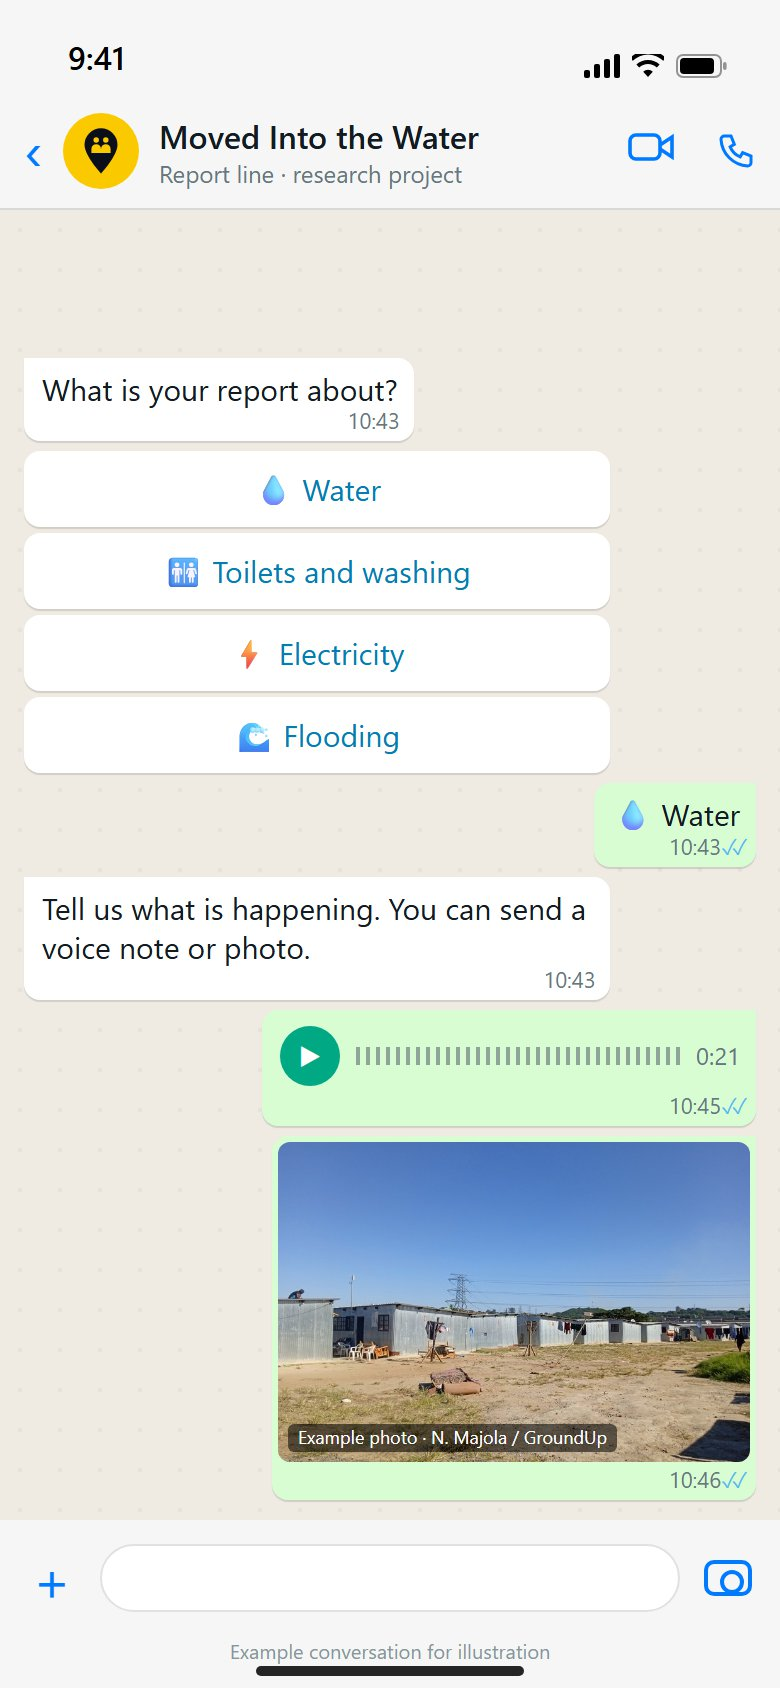
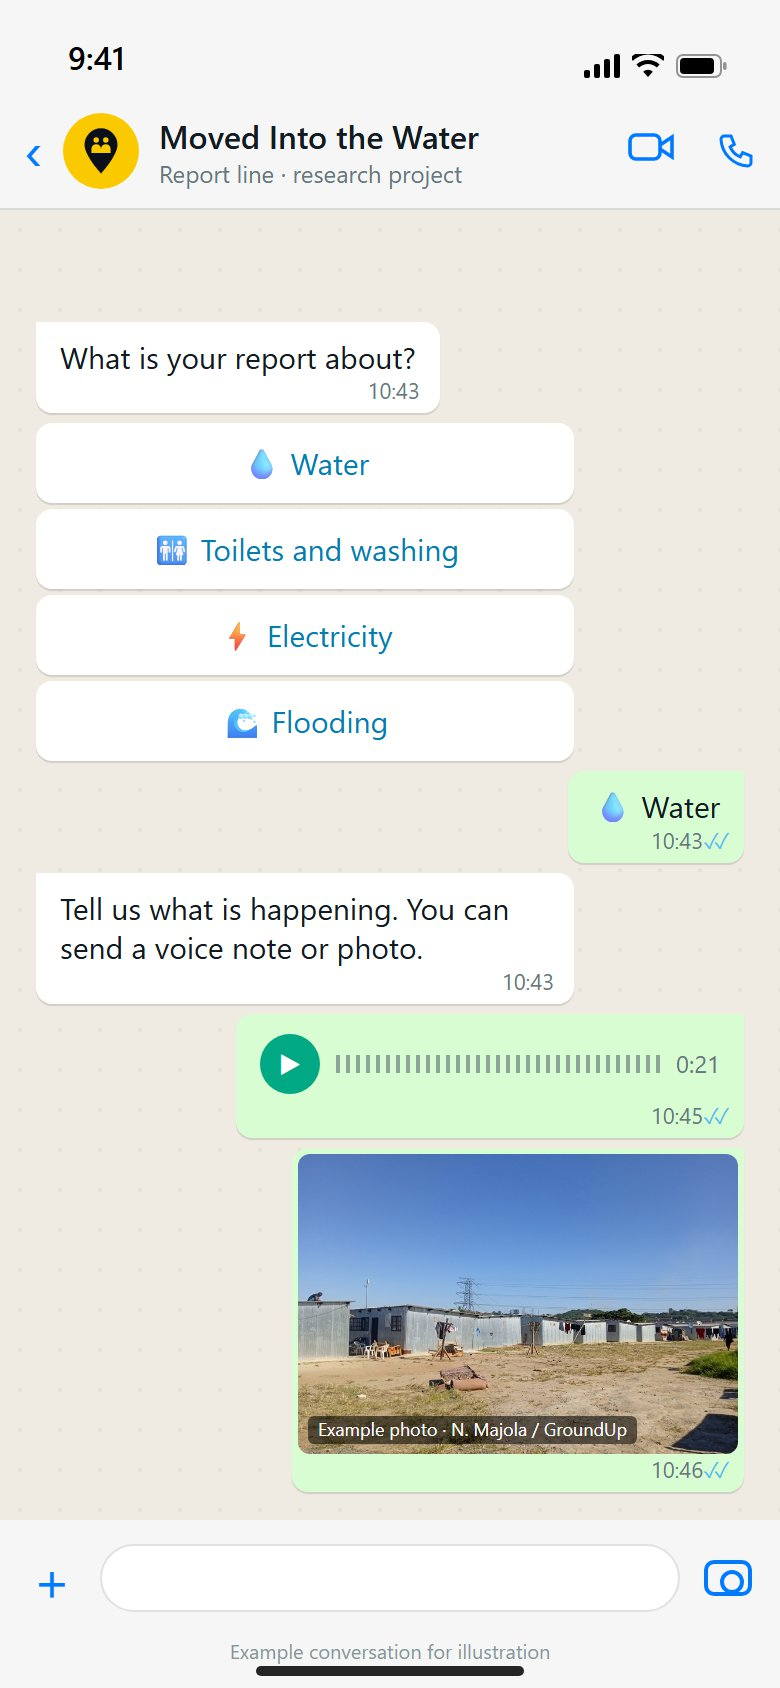
Report: chats drawn as live text (sharp at any size), WhatsApp-style bubble margins

Changed region(s): [[0.0308, 0.4929, 0.9846, 0.8934], [0.0308, 0.1848, 0.9846, 0.5237]]

diff --git a/viz-wandile/report/chats.js b/viz-wandile/report/chats.js
@@ -1,0 +1,3 @@
+/* Example chats for the Report page, drawn as live text so they stay sharp. Built by mockups/whatsapp-report/export_chats.py. */
+window.RP_CSS=".rpc *{box-sizing:border-box}\n.rpc,.rpc{margin:0;background:#fff;font-family:-apple-system,\"SF Pro Text\",\"Segoe UI\",Inter,Arial,sans-serif;overflow:hidden}\n.rpc .ph{position:absolute;left:0;top:0;width:390px;height:844px;display:flex;flex-direction:column;background:#EFEAE2}\n.rpc .sb{height:47px;display:flex;align-items:flex-end;justify-content:space-between;padding:0 26px 8px 34px;font-weight:600;font-size:16px;color:#000;background:#F6F6F6}\n.rpc .sb .ic{display:flex;gap:6px;align-items:center}\n.rpc .sb .ic i{display:block;background:#000;border-radius:2px}\n.rpc .hd{height:58px;display:flex;align-items:center;gap:10px;padding:0 12px;background:#F6F6F6;border-bottom:1px solid #d8d8d8;color:#111B21}\n.rpc .hd .bk{color:#007AFF;font-size:30px;line-height:1;margin-top:-4px}\n.rpc .av{width:38px;height:38px;border-radius:50%;background:#FBC900;display:grid;place-items:center;flex:none}\n.rpc .av svg{width:20px;height:24px}\n.rpc .nm{font-weight:600;font-size:16px}\n.rpc .st{font-size:12px;color:#667781}\n.rpc .hd .call{margin-left:auto;display:flex;gap:20px;color:#007AFF;font-size:20px}\n.rpc .bd{flex:1;padding:12px 18px 14px;display:flex;flex-direction:column;justify-content:flex-end;gap:5px;overflow:hidden;\n background:#EFEAE2 radial-gradient(rgba(0,0,0,.035) 1.2px,transparent 1.3px) 0 0/20px 20px}\n.rpc .day{align-self:center;background:#fff;color:#54656F;font-size:12px;padding:5px 12px;border-radius:8px;box-shadow:0 1px .5px rgba(11,20,26,.13);margin-bottom:4px}\n.rpc .enc{align-self:center;background:#FFEECD;color:#54656F;font-size:11.5px;line-height:1.35;padding:6px 10px;border-radius:8px;text-align:center;max-width:88%;margin-bottom:4px}\n.rpc .b{max-width:76%;padding:8px 12px 18px 12px;border-radius:8px;font-size:15px;line-height:1.32;color:#111B21;position:relative;box-shadow:0 1px .5px rgba(11,20,26,.13);white-space:pre-line}\n.rpc .b.in{background:#fff;align-self:flex-start;border-top-left-radius:0}\n.rpc .b.out{background:#D9FDD3;align-self:flex-end;border-top-right-radius:0}\n.rpc .b time{position:absolute;right:10px;bottom:4px;font-size:11px;color:#667781}\n.rpc .b.out time::after{content:\" \u2713\u2713\";color:#53BDEB;letter-spacing:-3px}\n.rpc .bt{align-self:flex-start;width:76%;display:grid;gap:3px}\n.rpc .bt div{background:#fff;border-radius:8px;padding:10px 12px;text-align:center;color:#027EB5;font-size:15px;box-shadow:0 1px .5px rgba(11,20,26,.13)}\n.rpc .pic{width:220px;height:150px;border-radius:6px;background:center/cover;margin-bottom:3px;position:relative}\n.rpc .pic span{position:absolute;left:5px;bottom:5px;font-size:9px;background:rgba(0,0,0,.55);color:#fff;padding:1px 5px;border-radius:3px}\n.rpc .vn{display:flex;align-items:center;gap:8px;width:230px;padding:2px 0 4px}\n.rpc .vn b{width:30px;height:30px;border-radius:50%;background:#00A884;display:grid;place-items:center;color:#fff;font-size:12px}\n.rpc .vn i{flex:1;height:22px;background:repeating-linear-gradient(90deg,#8fa59a 0 2px,transparent 2px 5px);-webkit-mask:linear-gradient(transparent 30%,#000 30%,#000 70%,transparent 70%)}\n.rpc .ft{height:84px;background:#F6F6F6;display:grid;grid-template-columns:28px 1fr 28px;gap:10px;align-items:center;padding:8px 12px 34px}\n.rpc .ft .pl{color:#007AFF;font-size:28px;line-height:1;text-align:center}\n.rpc .ft .box{height:34px;border-radius:18px;background:#fff;border:1px solid #e1e1e1}\n.rpc .ft .cam{width:24px;height:18px;border:2px solid #007AFF;border-radius:5px;position:relative;justify-self:center}\n.rpc .ft .cam::after{content:\"\";position:absolute;left:6px;top:3px;width:8px;height:8px;border:2px solid #007AFF;border-radius:50%}\n.rpc .ex{position:absolute;left:0;right:0;bottom:12px;text-align:center;font-size:10px;color:#8696A0}\n.rpc .home{position:absolute;left:50%;bottom:6px;transform:translateX(-50%);width:134px;height:5px;border-radius:3px;background:#000;opacity:.85}";
+window.RP_CHATS=["<div class=\"ph\"><div class=\"sb\"><span>9:41</span><span class=\"ic\"><svg width=\"18\" height=\"12\" viewBox=\"0 0 18 12\"><rect x=\"0\" y=\"8\" width=\"3\" height=\"4\" rx=\"1\"/><rect x=\"5\" y=\"5\" width=\"3\" height=\"7\" rx=\"1\"/><rect x=\"10\" y=\"2.5\" width=\"3\" height=\"9.5\" rx=\"1\"/><rect x=\"15\" y=\"0\" width=\"3\" height=\"12\" rx=\"1\"/></svg><svg width=\"16\" height=\"12\" viewBox=\"0 0 16 12\"><path d=\"M8 11.5l2.4-2.6a3.4 3.4 0 00-4.8 0zM3.6 6.8a6.3 6.3 0 018.8 0l1.4-1.5a8.4 8.4 0 00-11.6 0zM.4 3.4a10.8 10.8 0 0115.2 0L17 2A12.8 12.8 0 00-1 2z\"/></svg><svg width=\"26\" height=\"12\" viewBox=\"0 0 26 12\"><rect x=\".5\" y=\".5\" width=\"22\" height=\"11\" rx=\"3\" fill=\"none\" stroke=\"#000\" opacity=\".4\"/><rect x=\"2\" y=\"2\" width=\"17\" height=\"8\" rx=\"2\"/><rect x=\"23.5\" y=\"4\" width=\"1.8\" height=\"4\" rx=\"1\" opacity=\".4\"/></svg></span></div><div class=\"hd\"><span class=\"bk\">‹</span><div class=\"av\"><svg viewBox=\"0 0 56 70\"><path d=\"M28 68C28 68 4 42 4 26a24 24 0 0148 0c0 16-24 42-24 42z\" fill=\"#0B0F19\"/><circle cx=\"21\" cy=\"19\" r=\"4\" fill=\"#FBC900\"/><circle cx=\"35\" cy=\"19\" r=\"4\" fill=\"#FBC900\"/><path d=\"M14 38v-6a7 7 0 0114 0v6zM28 38v-6a7 7 0 0114 0v6z\" fill=\"#FBC900\"/></svg></div><div><div class=\"nm\">Moved Into the Water</div><div class=\"st\">Report line · research project</div></div><div class=\"call\"><svg width=\"24\" height=\"16\" viewBox=\"0 0 24 16\" fill=\"none\" stroke=\"#007AFF\" stroke-width=\"1.8\"><rect x=\"1\" y=\"2\" width=\"15\" height=\"12\" rx=\"3\"/><path d=\"M16 7l6-4v10l-6-4\"/></svg><svg width=\"20\" height=\"20\" viewBox=\"0 0 24 24\" fill=\"none\" stroke=\"#007AFF\" stroke-width=\"1.8\"><path d=\"M5 3h4l2 5-2.5 1.5a11 11 0 006 6L16 13l5 2v4a2 2 0 01-2 2A17 17 0 013 5a2 2 0 012-2z\"/></svg></div></div><div class=\"bd\"><div class=\"day\">Today</div><div class=\"enc\">🔒 Your name is never shown on the map.</div><div class=\"b out\">Hi, I want to report conditions at my site<time>10:41</time></div><div class=\"b in\">Sawubona! 👋 This line is run by a student research project on Durban’s relocation sites.\n\nA researcher may call you to check your report. Type STOP any time.<time>10:41</time></div><div class=\"bt\"><div>I agree, continue</div><div>How we use reports</div></div><div class=\"b out\">I agree, continue<time>10:42</time></div><div class=\"b in\">Which site do you live at?<time>10:42</time></div><div class=\"b out\">Lamontville riverside camp<time>10:42</time></div></div><div class=\"ft\"><span class=\"pl\">+</span><span class=\"box\"></span><span class=\"cam\"></span></div><div class=\"ex\">Example conversation for illustration</div><div class=\"home\"></div></div>", "<div class=\"ph\"><div class=\"sb\"><span>9:41</span><span class=\"ic\"><svg width=\"18\" height=\"12\" viewBox=\"0 0 18 12\"><rect x=\"0\" y=\"8\" width=\"3\" height=\"4\" rx=\"1\"/><rect x=\"5\" y=\"5\" width=\"3\" height=\"7\" rx=\"1\"/><rect x=\"10\" y=\"2.5\" width=\"3\" height=\"9.5\" rx=\"1\"/><rect x=\"15\" y=\"0\" width=\"3\" height=\"12\" rx=\"1\"/></svg><svg width=\"16\" height=\"12\" viewBox=\"0 0 16 12\"><path d=\"M8 11.5l2.4-2.6a3.4 3.4 0 00-4.8 0zM3.6 6.8a6.3 6.3 0 018.8 0l1.4-1.5a8.4 8.4 0 00-11.6 0zM.4 3.4a10.8 10.8 0 0115.2 0L17 2A12.8 12.8 0 00-1 2z\"/></svg><svg width=\"26\" height=\"12\" viewBox=\"0 0 26 12\"><rect x=\".5\" y=\".5\" width=\"22\" height=\"11\" rx=\"3\" fill=\"none\" stroke=\"#000\" opacity=\".4\"/><rect x=\"2\" y=\"2\" width=\"17\" height=\"8\" rx=\"2\"/><rect x=\"23.5\" y=\"4\" width=\"1.8\" height=\"4\" rx=\"1\" opacity=\".4\"/></svg></span></div><div class=\"hd\"><span class=\"bk\">‹</span><div class=\"av\"><svg viewBox=\"0 0 56 70\"><path d=\"M28 68C28 68 4 42 4 26a24 24 0 0148 0c0 16-24 42-24 42z\" fill=\"#0B0F19\"/><circle cx=\"21\" cy=\"19\" r=\"4\" fill=\"#FBC900\"/><circle cx=\"35\" cy=\"19\" r=\"4\" fill=\"#FBC900\"/><path d=\"M14 38v-6a7 7 0 0114 0v6zM28 38v-6a7 7 0 0114 0v6z\" fill=\"#FBC900\"/></svg></div><div><div class=\"nm\">Moved Into the Water</div><div class=\"st\">Report line · research project</div></div><div class=\"call\"><svg width=\"24\" height=\"16\" viewBox=\"0 0 24 16\" fill=\"none\" stroke=\"#007AFF\" stroke-width=\"1.8\"><rect x=\"1\" y=\"2\" width=\"15\" height=\"12\" rx=\"3\"/><path d=\"M16 7l6-4v10l-6-4\"/></svg><svg width=\"20\" height=\"20\" viewBox=\"0 0 24 24\" fill=\"none\" stroke=\"#007AFF\" stroke-width=\"1.8\"><path d=\"M5 3h4l2 5-2.5 1.5a11 11 0 006 6L16 13l5 2v4a2 2 0 01-2 2A17 17 0 013 5a2 2 0 012-2z\"/></svg></div></div><div class=\"bd\"><div class=\"b in\">What is your report about?<time>10:43</time></div><div class=\"bt\"><div>💧 Water</div><div>🚻 Toilets and washing</div><div>⚡ Electricity</div><div>🌊 Flooding</div></div><div class=\"b out\">💧 Water<time>10:43</time></div><div class=\"b in\">Tell us what is happening. You can send a voice note or photo.<time>10:43</time></div><div class=\"b out\"><div class=\"vn\"><b>▶</b><i></i><small style=\"font-size:12px;color:#667781\">0:21</small></div><time>10:45</time></div><div class=\"b out\" style=\"padding:3px 3px 16px\"><div class=\"pic\" style=\"background-image:url(assets/photos/gu_lamontville_camp_2022.jpg)\"><span>Example photo · N. Majola / GroundUp</span></div><time>10:46</time></div></div><div class=\"ft\"><span class=\"pl\">+</span><span class=\"box\"></span><span class=\"cam\"></span></div><div class=\"ex\">Example conversation for illustration</div><div class=\"home\"></div></div>", "<div class=\"ph\"><div class=\"sb\"><span>9:41</span><span class=\"ic\"><svg width=\"18\" height=\"12\" viewBox=\"0 0 18 12\"><rect x=\"0\" y=\"8\" width=\"3\" height=\"4\" rx=\"1\"/><rect x=\"5\" y=\"5\" width=\"3\" height=\"7\" rx=\"1\"/><rect x=\"10\" y=\"2.5\" width=\"3\" height=\"9.5\" rx=\"1\"/><rect x=\"15\" y=\"0\" width=\"3\" height=\"12\" rx=\"1\"/></svg><svg width=\"16\" height=\"12\" viewBox=\"0 0 16 12\"><path d=\"M8 11.5l2.4-2.6a3.4 3.4 0 00-4.8 0zM3.6 6.8a6.3 6.3 0 018.8 0l1.4-1.5a8.4 8.4 0 00-11.6 0zM.4 3.4a10.8 10.8 0 0115.2 0L17 2A12.8 12.8 0 00-1 2z\"/></svg><svg width=\"26\" height=\"12\" viewBox=\"0 0 26 12\"><rect x=\".5\" y=\".5\" width=\"22\" height=\"11\" rx=\"3\" fill=\"none\" stroke=\"#000\" opacity=\".4\"/><rect x=\"2\" y=\"2\" width=\"17\" height=\"8\" rx=\"2\"/><rect x=\"23.5\" y=\"4\" width=\"1.8\" height=\"4\" rx=\"1\" opacity=\".4\"/></svg></span></div><div class=\"hd\"><span class=\"bk\">‹</span><div class=\"av\"><svg viewBox=\"0 0 56 70\"><path d=\"M28 68C28 68 4 42 4 26a24 24 0 0148 0c0 16-24 42-24 42z\" fill=\"#0B0F19\"/><circle cx=\"21\" cy=\"19\" r=\"4\" fill=\"#FBC900\"/><circle cx=\"35\" cy=\"19\" r=\"4\" fill=\"#FBC900\"/><path d=\"M14 38v-6a7 7 0 0114 0v6zM28 38v-6a7 7 0 0114 0v6z\" fill=\"#FBC900\"/></svg></div><div><div class=\"nm\">Moved Into the Water</div><div class=\"st\">Report line · research project</div></div><div class=\"call\"><svg width=\"24\" height=\"16\" viewBox=\"0 0 24 16\" fill=\"none\" stroke=\"#007AFF\" stroke-width=\"1.8\"><rect x=\"1\" y=\"2\" width=\"15\" height=\"12\" rx=\"3\"/><path d=\"M16 7l6-4v10l-6-4\"/></svg><svg width=\"20\" height=\"20\" viewBox=\"0 0 24 24\" fill=\"none\" stroke=\"#007AFF\" stroke-width=\"1.8\"><path d=\"M5 3h4l2 5-2.5 1.5a11 11 0 006 6L16 13l5 2v4a2 2 0 01-2 2A17 17 0 013 5a2 2 0 012-2z\"/></svg></div></div><div class=\"bd\"><div class=\"b in\">Can a researcher call you on this number to check the details?<time>10:46</time></div><div class=\"bt\"><div>📞 Yes, you can call me</div><div>No, just send it</div></div><div class=\"b out\">📞 Yes, you can call me<time>10:47</time></div><div class=\"b in\">Received ✅\nReference: <b>LMT-0412</b>\n\n1. A researcher reviews it\n2. They may call you\n3. It goes on the map, without your name\n\nThank you. Your report helps us advocate for better housing conditions.<time>10:47</time></div></div><div class=\"ft\"><span class=\"pl\">+</span><span class=\"box\"></span><span class=\"cam\"></span></div><div class=\"ex\">Example conversation for illustration</div><div class=\"home\"></div></div>"];

diff --git a/viz-wandile/report/report.js b/viz-wandile/report/report.js
@@ -16,14 +16,19 @@ function render(){
   '<div class="rp-wat"><h2>Scan to report on WhatsApp</h2><p>Point your phone camera at the code. A chat opens with a few short questions.</p>'+
   '<ul class="rp-feats"><li><i>💬</i>No app to download</li><li><i>🔒</i>Your name is never shown</li><li><i>📞</i>A researcher may call to check</li></ul></div></div></div></div>'+
 '<div class="rp-steps">'+[['1','Start the conversation','Scan the code and say hello. You agree to how your report is used.','02-chat-start'],['2','Choose a topic and share','Pick your site and what it’s about, then type, send a voice note or a photo.','03-chat-report'],['3','Get a reference','A researcher reviews it and may call. Then it shows on the map, without your name.','04-chat-done']]
-    .map(s=>'<div class="rp-step"><h3><b>'+s[0]+'</b>'+s[1]+'</h3><p>'+s[2]+'</p><div class="rp-phone"><img src="report/'+s[3]+'.jpg" alt="Example WhatsApp chat: '+s[1]+'" loading="lazy"></div></div>').join('')+'</div></div>'+
+    .map((s,i)=>'<div class="rp-step"><h3><b>'+s[0]+'</b>'+s[1]+'</h3><p>'+s[2]+'</p><div class="rp-phone" role="img" aria-label="Example WhatsApp chat: '+s[1]+'">'+(window.RP_CHATS?'<div class="rpc" data-i="'+i+'"></div>':'<img src="report/'+s[3]+'.jpg" alt="">')+'</div></div>').join('')+'</div></div>'+
   '<div class="rp-help"><h2>Your report helps us advocate for better housing conditions<span>Every checked report becomes evidence.</span></h2>'+
     [['👁','Show real conditions'],['⚠','Highlight urgent needs'],['🏛','Inform government and partners'],['⚖','Hold decision-makers accountable'],['🏠','Push for safer housing']].map(h=>'<div><i aria-hidden="true">'+h[0]+'</i>'+h[1]+'</div>').join('')+'</div>'+
   '<div class="rp-form"><div class="side"><div class="rp-k">Or report here</div><h2>Use the web form</h2><p>Works now, on any phone or computer. Do not write your name or anyone else’s.</p><p style="font-size:12px;color:#64748B">Chat screens above are examples for illustration. The WhatsApp line needs a WhatsApp Business number and research-ethics approval before it goes live.</p></div><div class="box" id="rpbox"></div></div>';
   document.getElementById('rpbox').innerHTML=reportHTML();
   const f=document.getElementById('rep'); if(f && typeof sendReport==='function') f.onsubmit=sendReport;
 }
-function open(){ render(); root.hidden=false; root.scrollTop=0; document.querySelectorAll('nav button').forEach(b=>b.setAttribute('aria-current',b.dataset.v==='report'?'page':'false')); }
+/* live-text chats: drawn at 390 x 844 and scaled to the phone frame, so text stays sharp */
+function fitChats(){ root.querySelectorAll('.rpc').forEach(el=>{ const w=el.parentElement.clientWidth; el.style.transform='scale('+(w/390)+')'; }); }
+function fillChats(){ if(!window.RP_CHATS) return; if(!document.getElementById('rpcss')){ const st=document.createElement('style'); st.id='rpcss'; st.textContent=RP_CSS; document.head.appendChild(st); }
+  root.querySelectorAll('.rpc').forEach(el=>{ el.innerHTML=RP_CHATS[+el.dataset.i]; }); fitChats(); }
+window.addEventListener('resize',()=>{ if(!root.hidden) fitChats(); });
+function open(){ render(); root.hidden=false; fillChats(); root.scrollTop=0; document.querySelectorAll('nav button').forEach(b=>b.setAttribute('aria-current',b.dataset.v==='report'?'page':'false')); }
 function close(){ root.hidden=true; }
 document.querySelectorAll('nav button').forEach(b=>b.addEventListener('click',()=>{ if(b.dataset.v==='report') setTimeout(open,0); else close(); }));
 window.openReport=open;

diff --git a/viz-wandile/report/report.css b/viz-wandile/report/report.css
@@ -72,3 +72,7 @@
 .rp-phone{aspect-ratio:390/844;height:clamp(300px,calc(100vh - 64px - 230px),620px);width:auto;max-width:100%;margin:0 auto;border:9px solid #15181d;border-radius:42px;background:#fff;box-shadow:0 0 0 1.5px #3a3f47,0 24px 60px rgba(0,0,0,.5)}
 .rp-phone img{width:100%;height:100%;object-fit:cover;display:block}
 @media (max-width:1100px){.rp-phone{height:auto;width:min(300px,100%);aspect-ratio:390/844}}
+.rp-phone{position:relative;overflow:hidden}
+.rpc{position:absolute;left:0;top:0;width:390px;height:844px;transform-origin:0 0}
+.rp-phone{box-sizing:content-box}
+.rp-phone{height:auto;width:min(100% - 18px,calc((100vh - 64px - 250px) * 390 / 844));min-width:200px;aspect-ratio:390/844}

diff --git a/viz-wandile/index.html b/viz-wandile/index.html
@@ -885,6 +885,7 @@ setYear(2026,true); attr(); panel(); resize(); view.z=homeZoom(); draw();
 <!-- STORIES PAGE: real reporting per site (data/stories.js). Remove these two lines and the news.css link to take it out. -->
 <script src="data/stories.js"></script>
 <script src="news/news.js"></script>
+<script src="report/chats.js"></script>
 <script src="report/report.js"></script><!-- REPORT PAGE: remove this line and report.css to take it out -->
 <!-- STORY INTRO: plays one family's story over the map, then hands over to it.
      To switch it off, set INTRO_ON = false. To remove it entirely, delete the two script lines below and the intro.css link at the top.

diff --git a/mockups/whatsapp-report/build_light.py b/mockups/whatsapp-report/build_light.py
@@ -16,18 +16,18 @@ CSS = """
 .av svg{width:20px;height:24px}
 .nm{font-weight:600;font-size:16px}.st{font-size:12px;color:#667781}
 .hd .call{margin-left:auto;display:flex;gap:20px;color:#007AFF;font-size:20px}
-.bd{flex:1;padding:10px 12px;display:flex;flex-direction:column;justify-content:flex-end;gap:5px;overflow:hidden;
+.bd{flex:1;padding:12px 18px 14px;display:flex;flex-direction:column;justify-content:flex-end;gap:5px;overflow:hidden;
  background:#EFEAE2 radial-gradient(rgba(0,0,0,.035) 1.2px,transparent 1.3px) 0 0/20px 20px}
 .day{align-self:center;background:#fff;color:#54656F;font-size:12px;padding:5px 12px;border-radius:8px;box-shadow:0 1px .5px rgba(11,20,26,.13);margin-bottom:4px}
 .enc{align-self:center;background:#FFEECD;color:#54656F;font-size:11.5px;line-height:1.35;padding:6px 10px;border-radius:8px;text-align:center;max-width:88%;margin-bottom:4px}
-.b{max-width:80%;padding:6px 8px 16px 9px;border-radius:8px;font-size:15px;line-height:1.32;color:#111B21;position:relative;box-shadow:0 1px .5px rgba(11,20,26,.13);white-space:pre-line}
+.b{max-width:76%;padding:8px 12px 18px 12px;border-radius:8px;font-size:15px;line-height:1.32;color:#111B21;position:relative;box-shadow:0 1px .5px rgba(11,20,26,.13);white-space:pre-line}
 .b.in{background:#fff;align-self:flex-start;border-top-left-radius:0}
 .b.out{background:#D9FDD3;align-self:flex-end;border-top-right-radius:0}
-.b time{position:absolute;right:7px;bottom:3px;font-size:11px;color:#667781}
+.b time{position:absolute;right:10px;bottom:4px;font-size:11px;color:#667781}
 .b.out time::after{content:" ✓✓";color:#53BDEB;letter-spacing:-3px}
-.bt{align-self:flex-start;width:80%;display:grid;gap:3px}
-.bt div{background:#fff;border-radius:8px;padding:9px;text-align:center;color:#027EB5;font-size:15px;box-shadow:0 1px .5px rgba(11,20,26,.13)}
-.pic{width:236px;height:160px;border-radius:6px;background:center/cover;margin-bottom:3px;position:relative}
+.bt{align-self:flex-start;width:76%;display:grid;gap:3px}
+.bt div{background:#fff;border-radius:8px;padding:10px 12px;text-align:center;color:#027EB5;font-size:15px;box-shadow:0 1px .5px rgba(11,20,26,.13)}
+.pic{width:220px;height:150px;border-radius:6px;background:center/cover;margin-bottom:3px;position:relative}
 .pic span{position:absolute;left:5px;bottom:5px;font-size:9px;background:rgba(0,0,0,.55);color:#fff;padding:1px 5px;border-radius:3px}
 .vn{display:flex;align-items:center;gap:8px;width:230px;padding:2px 0 4px}
 .vn b{width:30px;height:30px;border-radius:50%;background:#00A884;display:grid;place-items:center;color:#fff;font-size:12px}

diff --git a/mockups/whatsapp-report/export_chats.py b/mockups/whatsapp-report/export_chats.py
@@ -1,0 +1,18 @@
+# Exports the example chats as live HTML + scoped CSS for the Report page (viz-wandile/report/chats.js).
+import re, json, os
+HERE=os.path.dirname(os.path.abspath(__file__))
+src=open(os.path.join(HERE,"build_light.py"),encoding="utf-8").read()
+code=src.split("for name, body in S.items():")[0]
+code=re.sub(r'PHOTO = .*', 'PHOTO = "assets/photos/gu_lamontville_camp_2022.jpg"', code)
+ns={"__file__":os.path.join(HERE,"build_light.py")}; exec(code,ns)
+out=[]
+for m in re.finditer(r"([^{}]+)\{([^{}]*)\}",ns["CSS"]):
+    ps=[]
+    for x in [s.strip() for s in m.group(1).split(",")]:
+        ps.append(".rpc *" if x=="*" else ".rpc" if x in ("html","body") else ".rpc "+x)
+    out.append(",".join(ps)+"{"+m.group(2)+"}")
+def inner(body):
+    h=ns["phone"](body); return h[h.index('<div class="ph">'):h.rindex("</body>")]
+chats=[inner(ns["S"][k]) for k in ["01-start","02-report","03-done"]]
+js="/* Example chats for the Report page, drawn as live text so they stay sharp. Built by mockups/whatsapp-report/export_chats.py. */\nwindow.RP_CSS="+json.dumps("\n".join(out))+";\nwindow.RP_CHATS="+json.dumps(chats,ensure_ascii=False)+";\n"
+open(os.path.join(HERE,"..","..","viz-wandile","report","chats.js"),"w",encoding="utf-8").write(js); print("ok",len(js))
